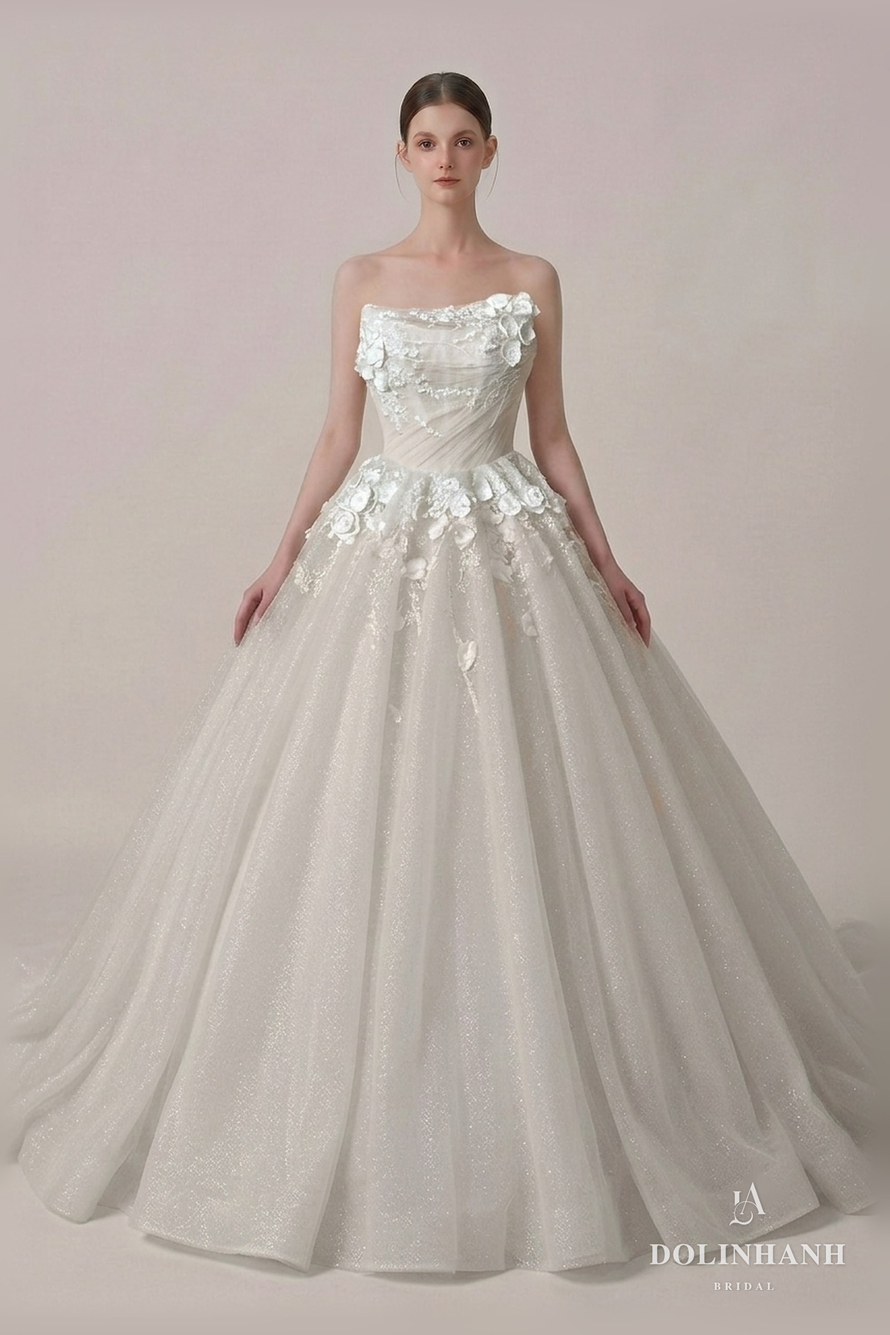
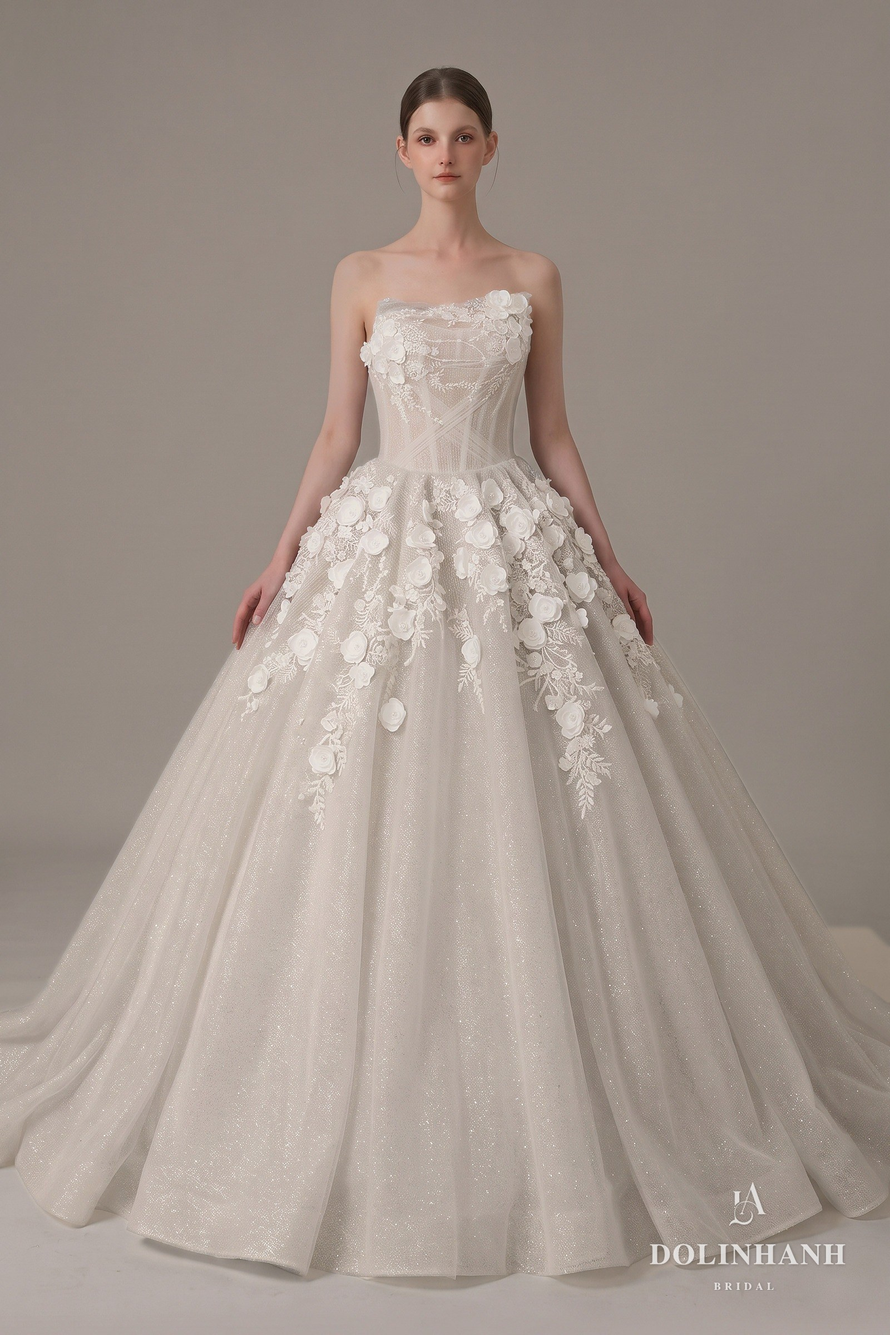
V186: MS 68: redrawn from the real gown clip, roses on skirt, X bands on corset

diff --git a/bo-suu-tap.html b/bo-suu-tap.html
@@ -1019,7 +1019,7 @@ src="https://www.facebook.com/tr?id=1358640082651240&ev=PageView&noscript=1"
         </figure>
         <figure data-dang="ballgown" data-mood="romantic" data-coso="hcm">
           <div class="sl-khung">
-            <div class="sl" data-img="anh/vay/ms68/01.jpg?v=3"></div>
+            <div class="sl" data-img="anh/vay/ms68/01.jpg?v=0611"></div>
           </div>
           <figcaption><span class="kind" data-en="Dolinhanh Bridal" data-zh="Dolinhanh Bridal">Dolinhanh Bridal</span><span class="nm">MS 68</span><span class="de" data-en="3D florals, full tulle skirt" data-zh="立体花朵，蓬松薄纱裙摆">Hoa nổi 3D, tùng voan xoè</span><span class="gia">US$1,880</span></figcaption>
         </figure>
